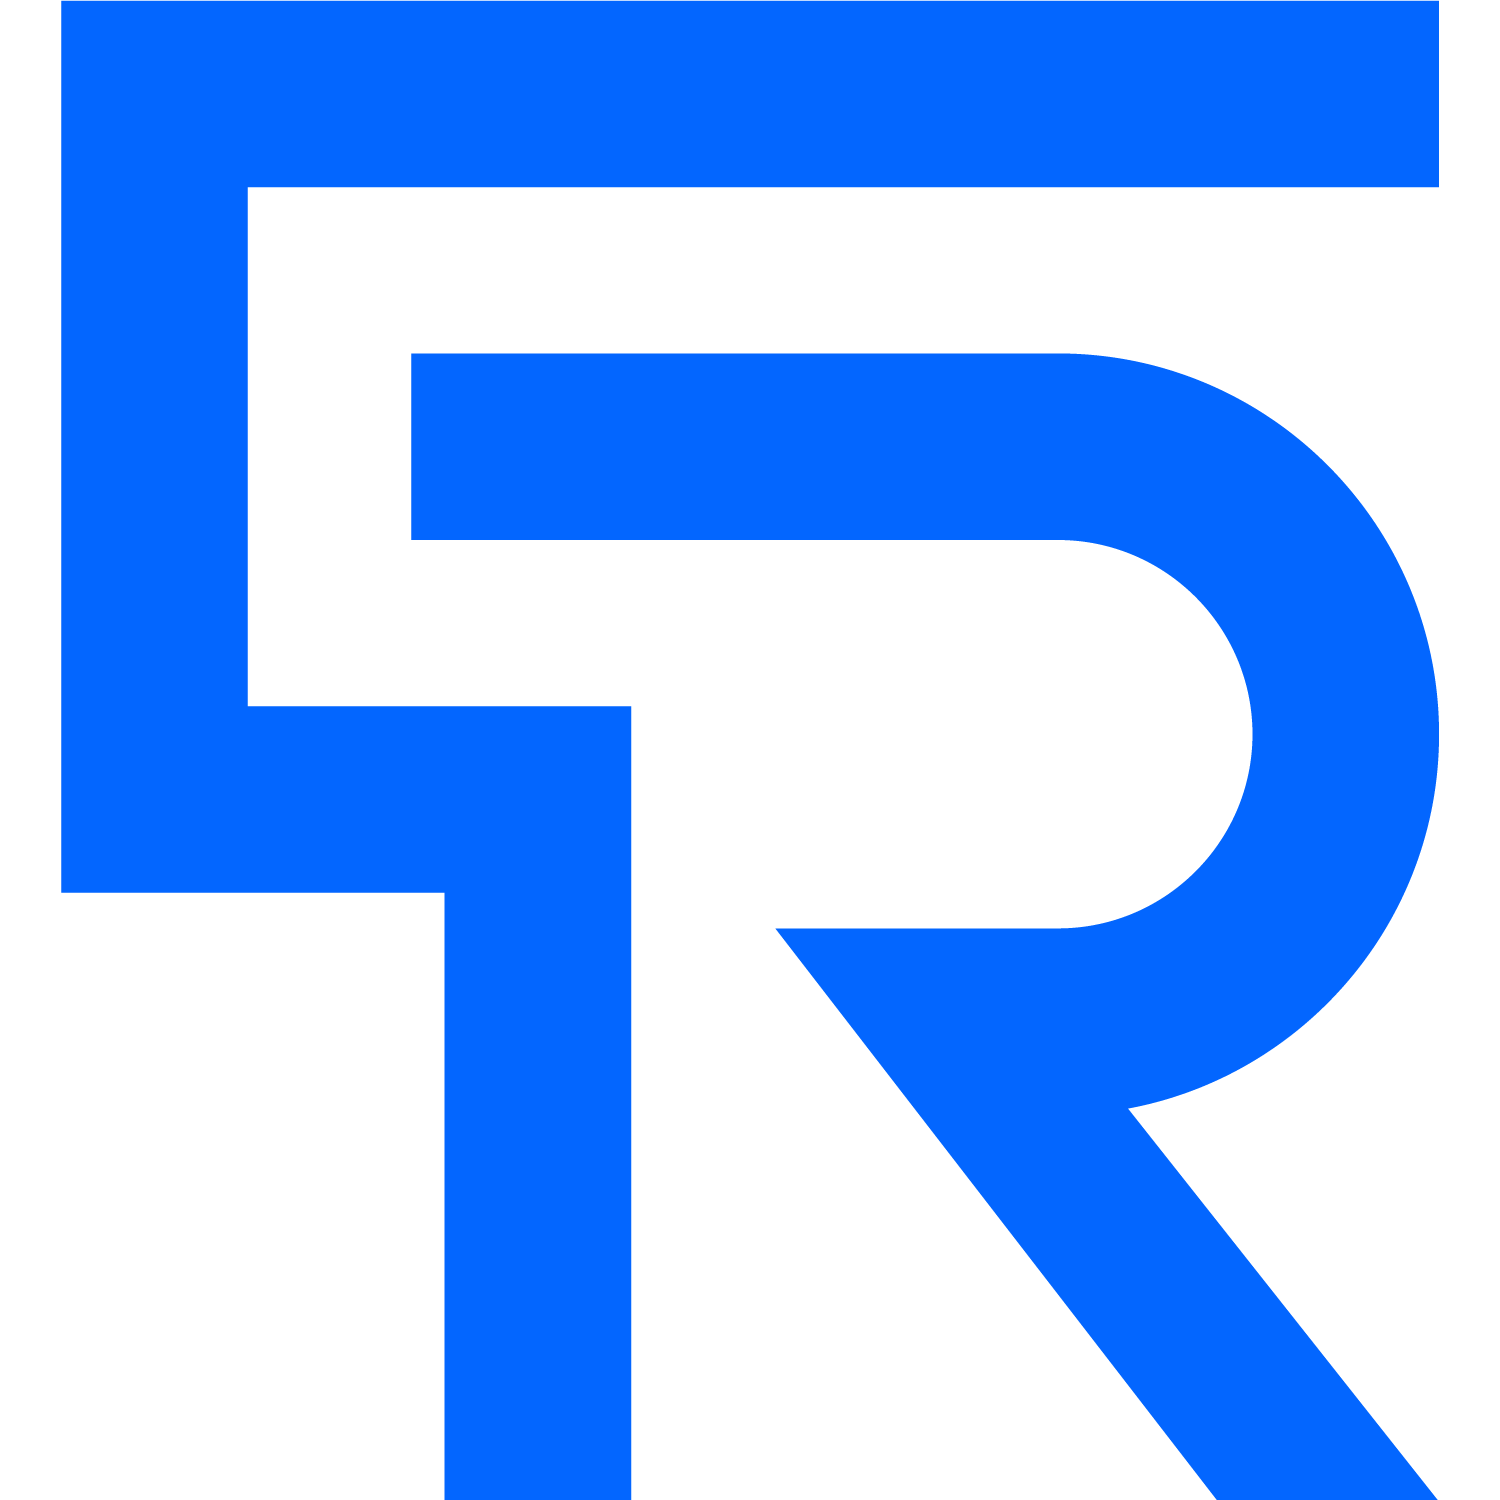
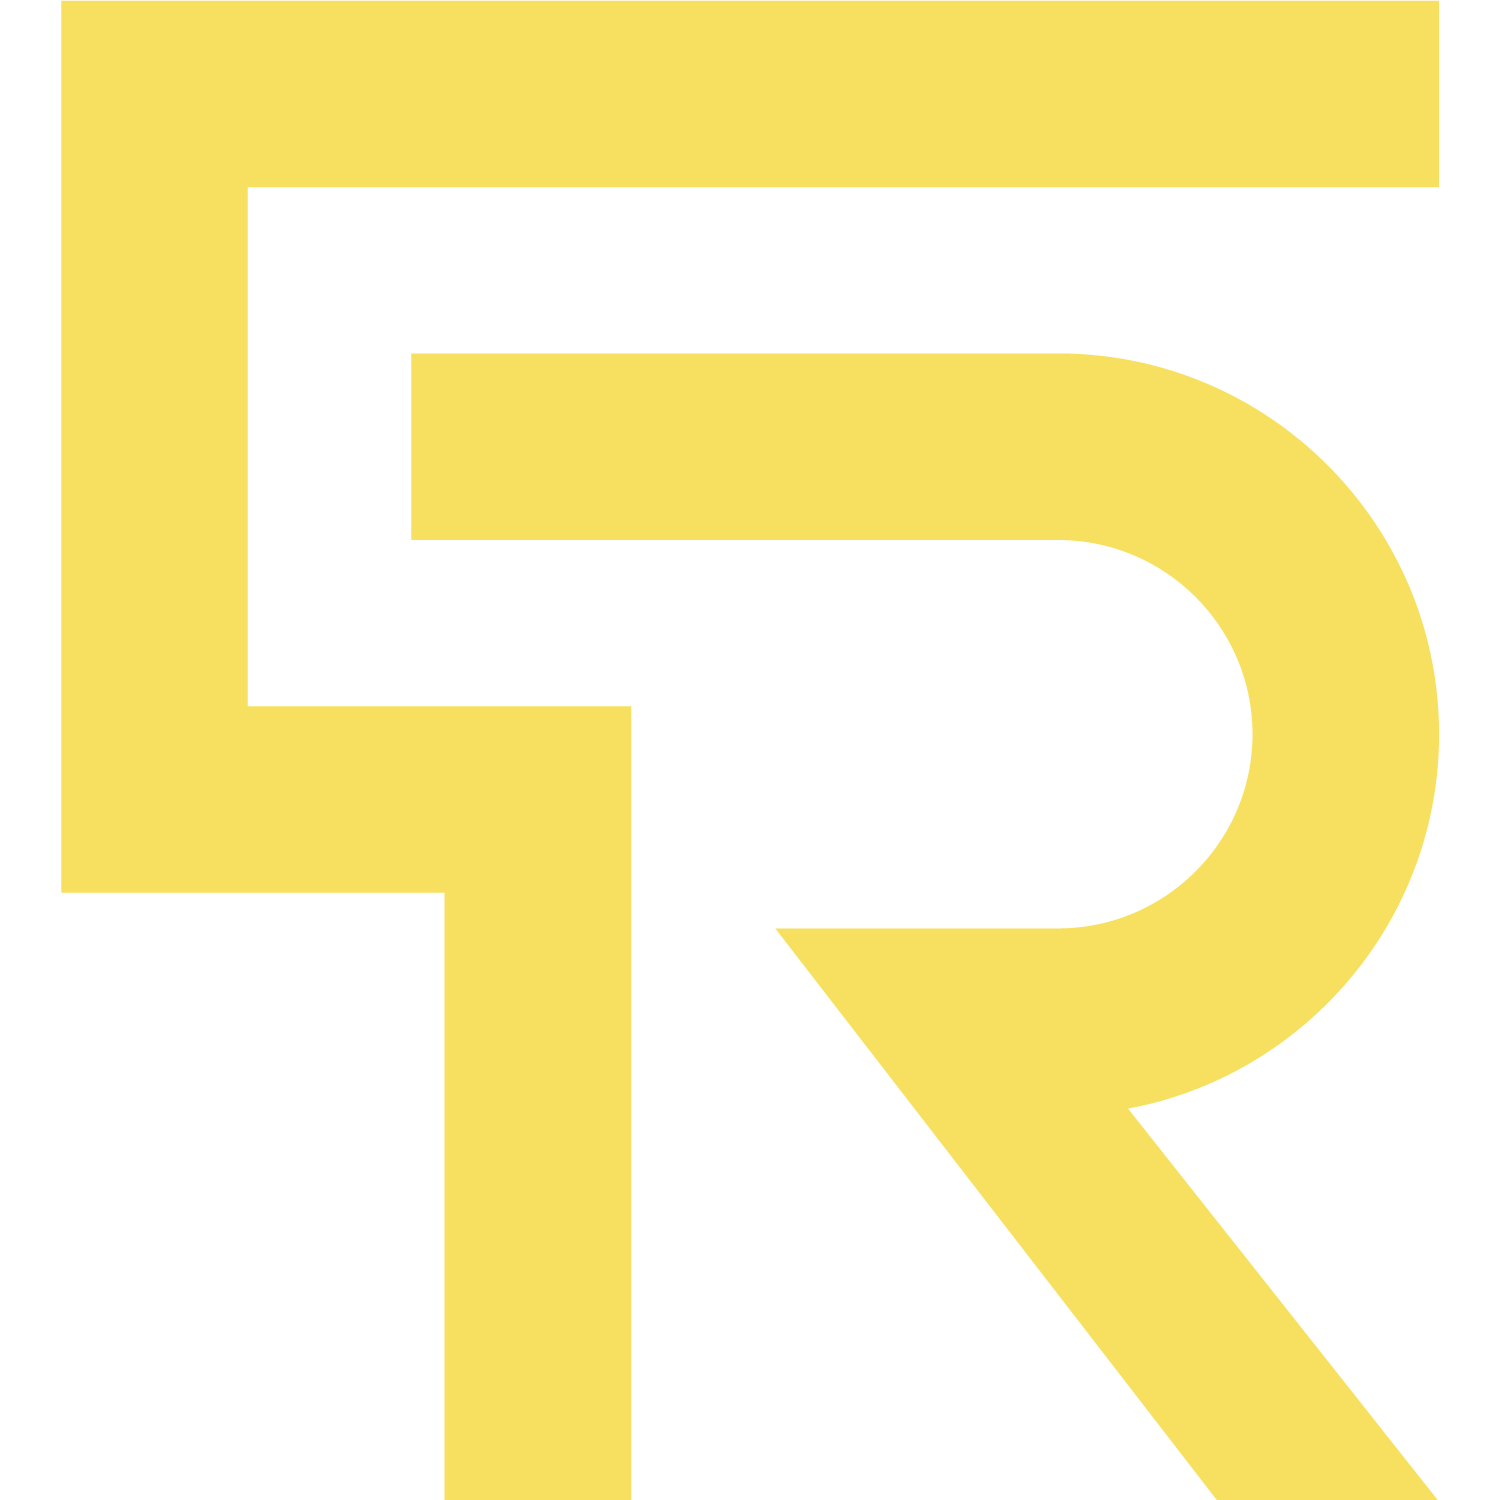
changed colors

diff --git a/styles/globals.css b/styles/globals.css
@@ -4,9 +4,9 @@
 
 @layer components {
   .heroButton {
-    @apply m-1 md:m-2 px-6 py-2 border border-[#242424] rounded-full uppercase text-xs tracking-widest text-gray-500 transition-all hover:border-[#0366ff]/40 hover:text-[#0366ff]/40;
+    @apply m-1 md:m-2 px-6 py-2 border border-[#242424] rounded-full uppercase text-xs tracking-widest text-gray-500 transition-all hover:border-primary/40 hover:text-primary/40;
   }
   .contactInput {
-    @apply outline-none bg-slate-400/10 rounded-sm border-b px-6 py-4 border-[#242424] text-gray-500 placeholder-gray-500 transition-all focus:border-[#0366ff]/40 focus:text-[#0366ff]/40;
+    @apply outline-none bg-slate-400/10 rounded-sm border-b px-6 py-4 border-[#242424] text-gray-500 placeholder-gray-500 transition-all focus:border-primary/40 focus:text-primary/40;
   }
 }

diff --git a/components/About.tsx b/components/About.tsx
@@ -44,7 +44,7 @@ const About = ({ pageInfo }: Props) => {
       <div className="space-y-5 md:space-y-10 px-0 md:px-16">
         <h4 className="text-2xl md:text-4xl font-semibold">
           Here is a{" "}
-          <span className="underline decoration-[#0366ff]/50">little</span>{" "}
+          <span className="underline decoration-primary/50">little</span>{" "}
           background
         </h4>
         <p className="text-base md:text-lg md:leading-loose">

diff --git a/components/ContactMe.tsx b/components/ContactMe.tsx
@@ -77,7 +77,7 @@ const ContactMe = ({ pageInfo }: Props) => {
           />
           <button
             type="submit"
-            className="bg-primary py-3 px-8 md:py-5 md:px-10 rounded-md text-white font-bold text-lg"
+            className="bg-primary py-3 px-8 md:py-5 md:px-10 rounded-md text-secondary font-bold text-lg"
           >
             Submit
           </button>

diff --git a/components/Hero.tsx b/components/Hero.tsx
@@ -40,7 +40,7 @@ const Hero = ({ pageInfo }: Props) => {
         </h2>
         <h1 className="text-3xl md:text-5xl lg:text-6xl font-semibold px-4 md:px-10">
           <span className="md:mr-2">{text}</span>
-          <Cursor cursorColor="#0366ff" />
+          <Cursor cursorColor="#f7e060" />
         </h1>
         <div className="pt-5">
           <Link href="#about">

diff --git a/tailwind.config.js b/tailwind.config.js
@@ -7,9 +7,9 @@ module.exports = {
   theme: {
     extend: {
       colors: {
-        primary: "#0366ff",
-        secondary: "#1a191f",
-        tertiary: "#24242e",
+        primary: "#f7e060",
+        secondary: "#161817",
+        tertiary: "#272725",
       },
     },
   },
